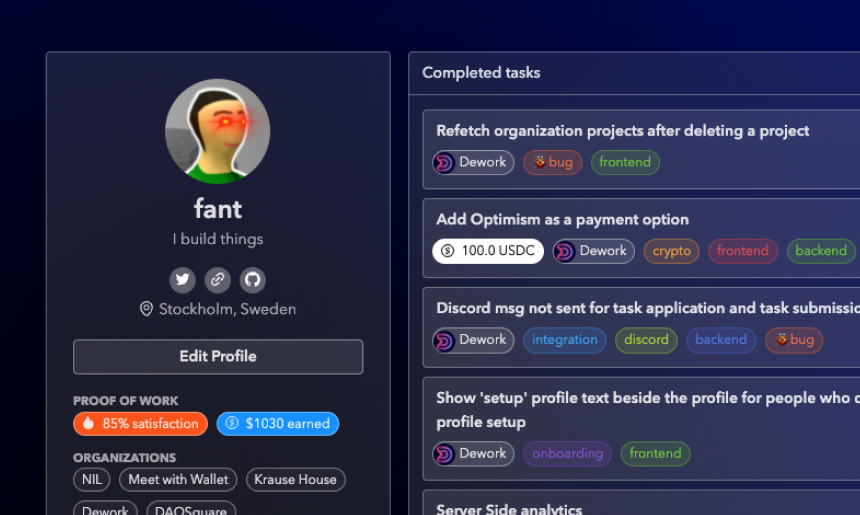
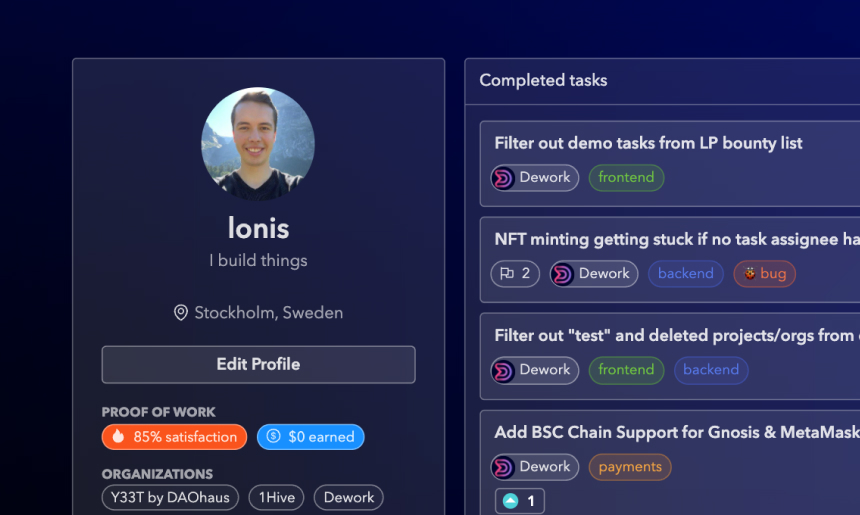
filter our dework from featured projects, create nft for specific task

diff --git a/packages/api/src/modules/nft/nft.poller.ts b/packages/api/src/modules/nft/nft.poller.ts
@@ -7,6 +7,7 @@ import {
   Logger,
   NotFoundException,
   Post,
+  Query,
   Res,
 } from "@nestjs/common";
 import { ConfigService } from "@nestjs/config";
@@ -21,6 +22,7 @@ import { Repository } from "typeorm";
 import { DeworkTasksV2 } from "dework-contracts/typechain";
 import { abi as DeworkTasksABI } from "dework-contracts/artifacts/contracts/DeworkTasksV2.sol/DeworkTasksV2.json";
 import { ThreepidSource } from "@dewo/api/models/Threepid";
+import { TaskService } from "../task/task.service";
 
 @Controller("nfts")
 export class NFTPoller {
@@ -29,18 +31,22 @@ export class NFTPoller {
   constructor(
     private readonly service: NFTService,
     private readonly paymentService: PaymentService,
+    private readonly taskService: TaskService,
     private readonly config: ConfigService<ConfigType>,
     @InjectRepository(PaymentMethod)
     private readonly paymentMethodRepo: Repository<PaymentMethod>
   ) {}
 
   @Post("update")
-  public async updateNfts(@Res() res: Response) {
-    const result = await this.poll();
+  public async updateNfts(
+    @Query("taskId") taskId: string,
+    @Res() res: Response
+  ) {
+    const result = await this.poll(taskId);
     res.json({ ok: true, result });
   }
 
-  public async poll(): Promise<{ taskId: string } | undefined> {
+  public async poll(taskId?: string): Promise<{ taskId: string } | undefined> {
     const startedAt = new Date();
     this.logger.log(
       `Polling for tasks to mint: ${JSON.stringify({ startedAt })}`
@@ -48,7 +54,9 @@ export class NFTPoller {
 
     const minter = await this.getMinter();
 
-    const task = await this.service.findNextTaskToMint();
+    const task = !!taskId
+      ? await this.taskService.findById(taskId)
+      : await this.service.findNextTaskToMint();
     if (!!task) {
       this.logger.debug(`Minting NFTs for task: ${JSON.stringify(task)}`);
 

diff --git a/packages/api/src/modules/nft/nft.module.ts b/packages/api/src/modules/nft/nft.module.ts
@@ -8,10 +8,12 @@ import { Task } from "@dewo/api/models/Task";
 import { PaymentModule } from "../payment/payment.module";
 import { PaymentMethod } from "@dewo/api/models/PaymentMethod";
 import { TaskNFTResolver } from "./nft.resolver";
+import { TaskModule } from "../task/task.module";
 
 @Module({
   imports: [
     TypeOrmModule.forFeature([Task, TaskNFT, PaymentMethod]),
+    TaskModule,
     PermalinkModule,
     PaymentModule,
   ],

diff --git a/packages/api/src/modules/project/project.service.ts b/packages/api/src/modules/project/project.service.ts
@@ -196,6 +196,7 @@ export class ProjectService {
       .andWhere("LOWER(project.name) NOT LIKE '%demo%'")
       .andWhere("LOWER(organization.name) NOT LIKE '%test%'")
       .andWhere("LOWER(organization.name) NOT LIKE '%demo%'")
+      .andWhere("LOWER(organization.name) NOT LIKE '%dework%'")
       .groupBy("project.id, organization.id")
       .having("COUNT(task.id) >= 10")
       .getRawMany();
